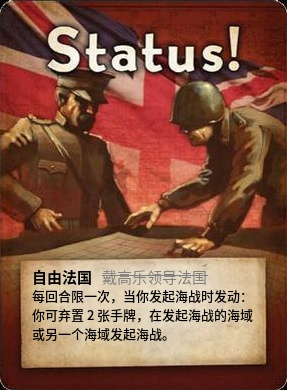
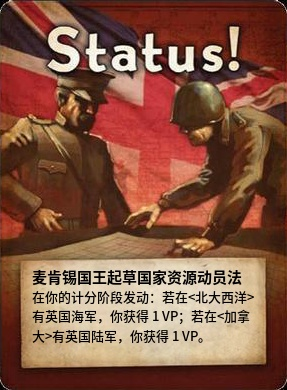
be able to draw a card image automatically

Changed region(s): [[0.1115, 0.6769, 0.892, 0.8923]]

diff --git a/newImages/Cards/py/addText.py b/newImages/Cards/py/addText.py
@@ -3,43 +3,60 @@ import cv2
 from PIL import ImageFont, ImageDraw, Image
 import numpy as np
 import TextWrapper
+import json
+import Card
 
-# image
-card_img = cv2.imread("test.png")
 
-# font
-fontpath_heavy = "C:\WINDOWS\Fonts\SourceHanSansSC-Heavy.otf"
-fontpath_bold = "C:\WINDOWS\Fonts\SourceHanSansSC-Bold.otf"
-fontpath_medium = "C:\WINDOWS\Fonts\SourceHanSansSC-Medium.otf"
-fontpath_regular = "C:\WINDOWS\Fonts\SourceHanSansSC-Regular.otf"
-font_title = ImageFont.truetype(fontpath_bold, 15)
-font_meme = ImageFont.truetype(fontpath_regular, 15)
-font_text = ImageFont.truetype(fontpath_medium, 13)
-img_pil = Image.fromarray(card_img)
-draw = ImageDraw.Draw(img_pil)
+def draw_card(card):
+    text_list = TextWrapper.fw_wrap(card.text, 50)
+
+    # image
+    card_img = cv2.imread("test.png")
+
+    # font
+    fontpath_bold = "C:\WINDOWS\Fonts\SourceHanSansSC-Bold.otf"
+    fontpath_medium = "C:\WINDOWS\Fonts\SourceHanSansSC-Medium.otf"
+    fontpath_regular = "C:\WINDOWS\Fonts\SourceHanSansSC-Regular.otf"
+    font_title = ImageFont.truetype(fontpath_bold, 15)
+    font_text = ImageFont.truetype(fontpath_medium, 13)
+    font_meme = ImageFont.truetype(fontpath_regular, 13)
+    img_pil = Image.fromarray(card_img)
+    draw = ImageDraw.Draw(img_pil)
+
+    # draw
+    init_x, init_y, pad = 32, 265, 0
+
+    title_w, title_h = draw.textsize(card.title, font=font_title)
+    draw.text((init_x, init_y), card.title, font=font_title, fill=0)
+
+    current_y = init_y + title_h + pad
+    for line in text_list:
+        char_w, char_h = draw.textsize(line, font=font_text)
+        draw.text((init_x, current_y), line, font=font_text, fill=0)
+        current_y += char_h + pad
+
+    if (card.meme):
+        meme_w, meme_h = draw.textsize(card.meme, font=font_meme)
+        meme_x, meme_y = init_x + title_w + 5, init_y + title_h - meme_h
+        line_y = init_y + 3 + meme_h / 2
+        draw.text((meme_x, meme_y),
+                  card.meme,
+                  font=font_meme,
+                  fill=(127, 127, 127))
+        draw.line((meme_x, line_y, meme_x + meme_w, line_y),
+                  fill=(127, 127, 127))
+
+    card_img = np.array(img_pil)
+
+    cv2.imshow("add_text", card_img)
+    cv2.waitKey()
+    cv2.imwrite("add_text.jpg", card_img)
+
 
 # text
-card_title = "自由法国"
-text1line = "每回合限一次，当你发起海战时发动：你可弃置 2 张手牌，在发起海战的海域或另一个海域发起海战。"
-card_text = TextWrapper.fw_wrap(text1line, 51)
-card_meme = "戴高乐领导法国"
-
-# draw
-init_x, init_y, pad = 32, 265, 0
-title_w, title_h = draw.textsize(card_title, font=font_title)
-draw.text((init_x, init_y), card_title, font=font_title, fill=0)
-current_y = init_y + title_h + pad
-for line in card_text:
-    char_w, char_h = draw.textsize(line, font=font_text)
-    draw.text((init_x, current_y), line, font=font_text, fill=0)
-    current_y += char_h + pad
-if (card_meme):
-    meme_w, meme_h = draw.textsize(card_meme, font=font_meme)
-    meme_x, line_y = init_x + title_w + 10, init_y + 2 + meme_h / 2
-    draw.text((meme_x, init_y), card_meme, font=font_meme, fill=(127, 127, 127))
-    draw.line((meme_x, line_y, meme_x + meme_w, line_y), fill=(127, 127, 127))
-card_img = np.array(img_pil)
-
-cv2.imshow("add_text", card_img)
-cv2.waitKey()
-cv2.imwrite("add_text.jpg", card_img)
+with open("test.json") as f:
+    cards_data = json.load(f)
+    for card_dict in cards_data:
+        card = Card.Card()
+        card.__dict__ = card_dict
+        draw_card(card)

diff --git a/newImages/Cards/py/Card.py b/newImages/Cards/py/Card.py
@@ -1,0 +1,7 @@
+class Card:
+    title = ""
+    country = ""
+    type = ""
+    expansion = ""
+    text = ""
+    meme = ""
